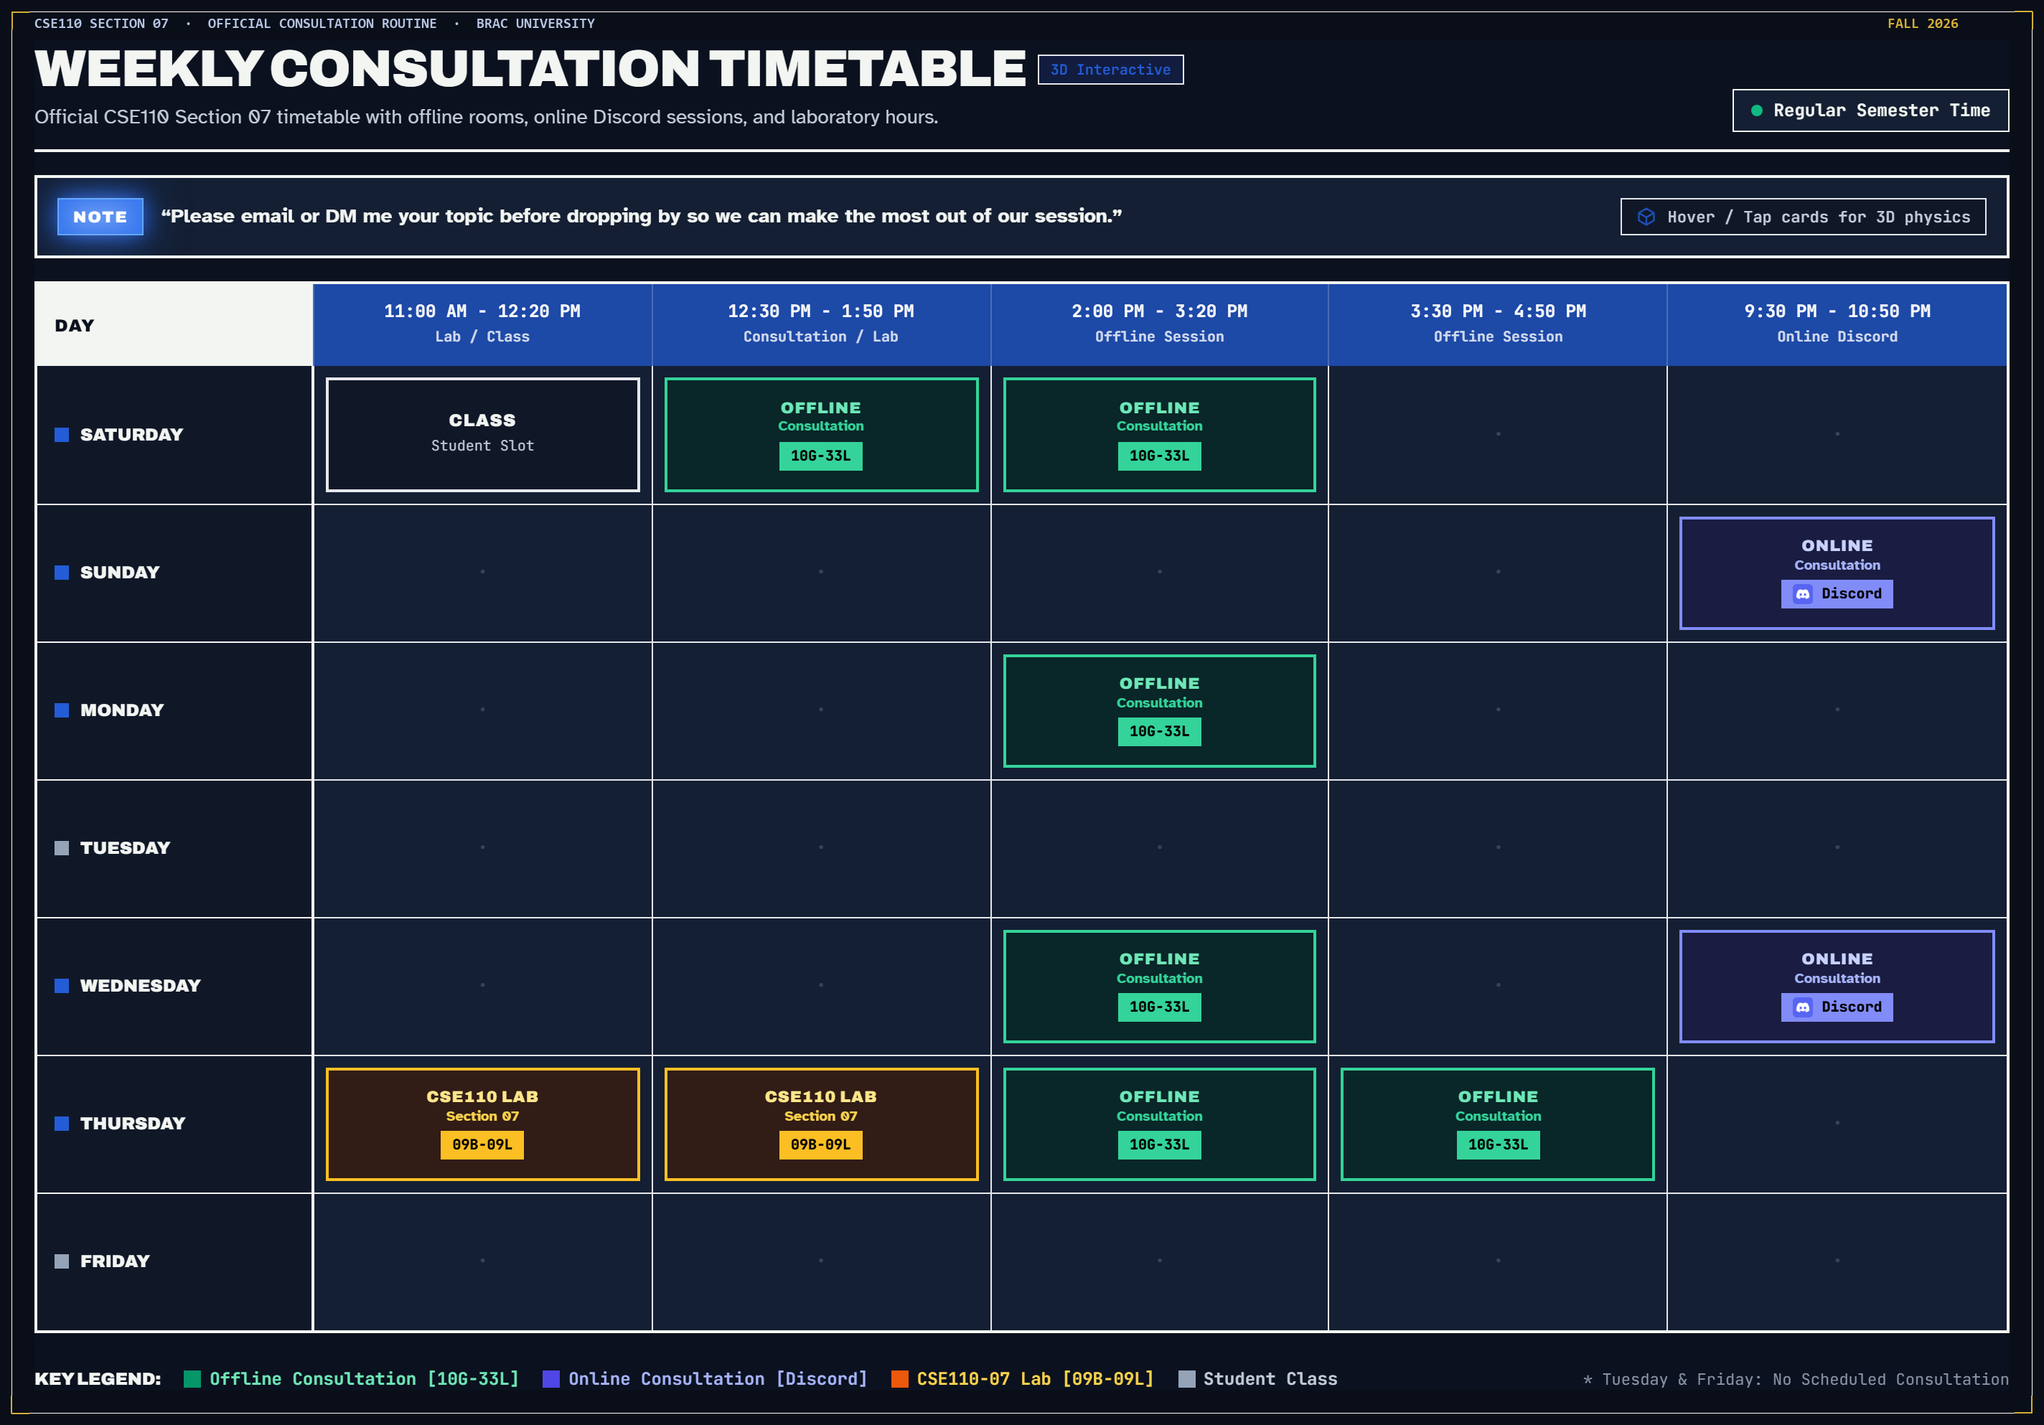
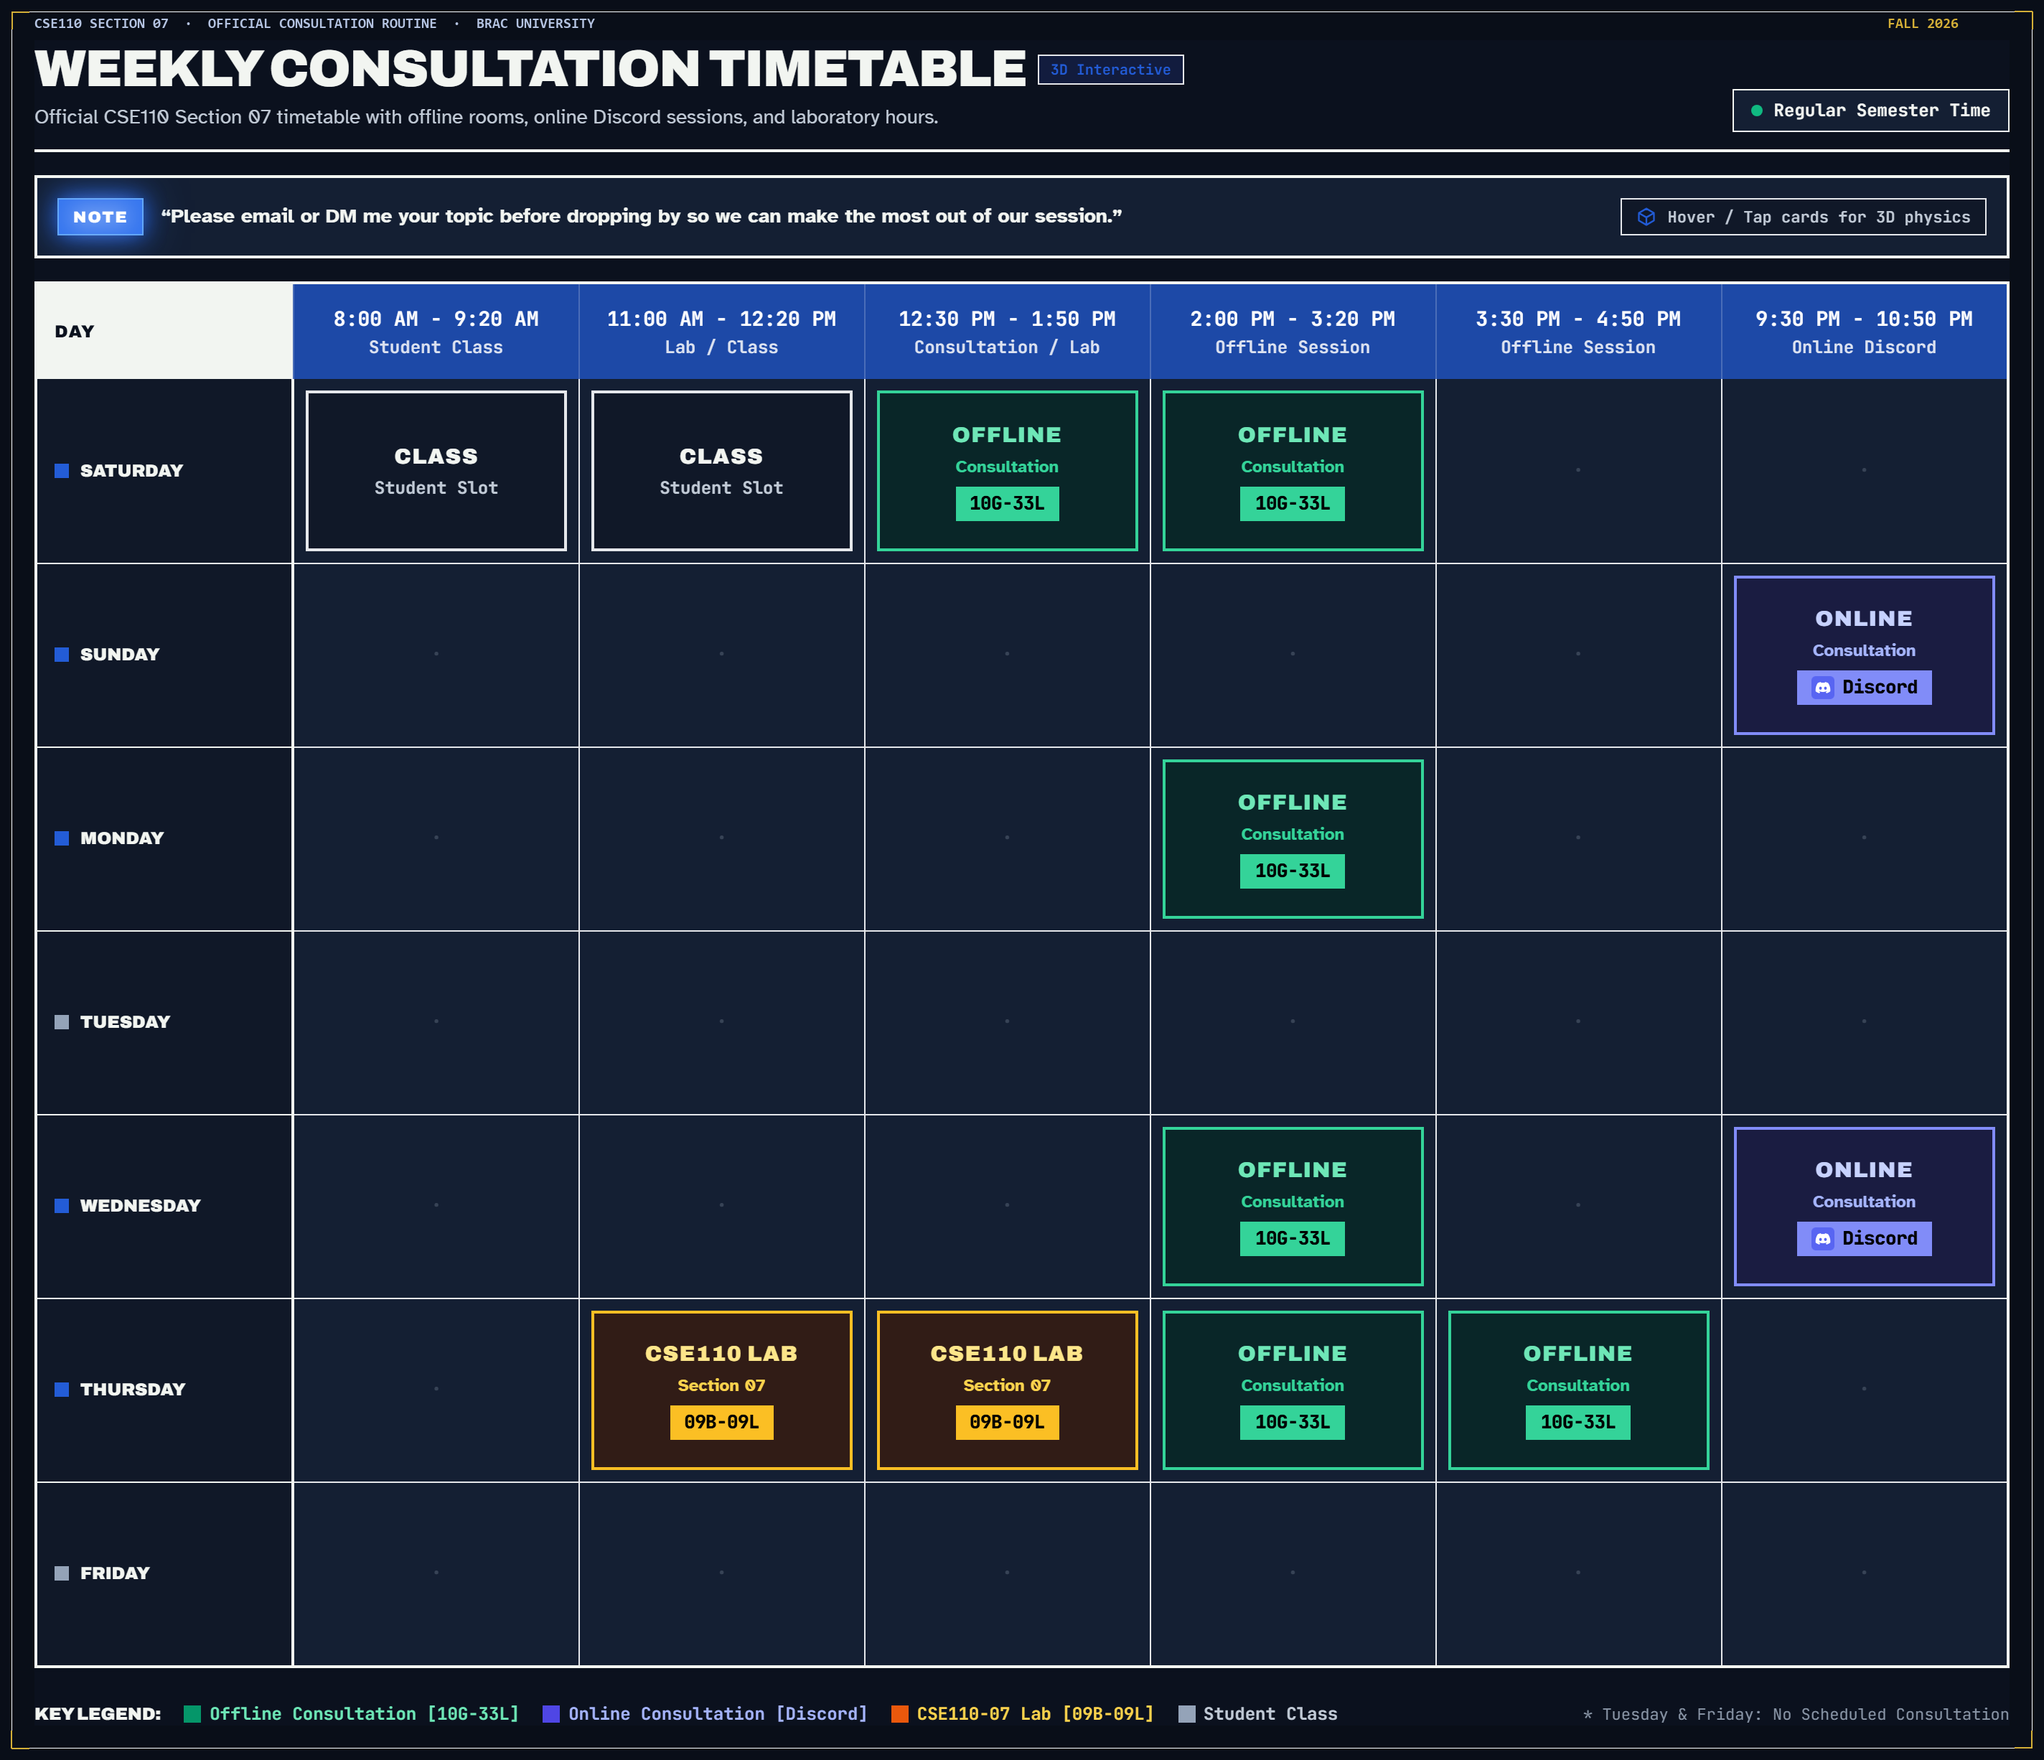
feat: add 8:00 AM - 9:20 AM class slot, enlarge card typography and update timetable showcase

diff --git a/src/App.tsx b/src/App.tsx
@@ -28,13 +28,14 @@ const LOGO_128 = `${BASE}rounded-logo-128.png`;
 const LOGO_256 = `${BASE}rounded-logo-256.png`;
 const DISCORD_LOGO = `${BASE}discord-logo-64.png`;
 
-/* 5 Active Time Slots (Each slot is 1h 20m; 10 min breaks excluded) */
+/* 6 Active Time Slots (Each slot is 1h 20m; 10 min breaks excluded) */
 const TIME_COLUMNS = [
-  { id: 1, label: '11:00 AM - 12:20 PM', sub: 'Lab / Class', hasSession: true },
-  { id: 2, label: '12:30 PM - 1:50 PM', sub: 'Consultation / Lab', hasSession: true },
-  { id: 3, label: '2:00 PM - 3:20 PM', sub: 'Offline Session', hasSession: true },
-  { id: 4, label: '3:30 PM - 4:50 PM', sub: 'Offline Session', hasSession: true },
-  { id: 5, label: '9:30 PM - 10:50 PM', sub: 'Online Discord', hasSession: true },
+  { id: 1, label: '8:00 AM - 9:20 AM', sub: 'Student Class', hasSession: true },
+  { id: 2, label: '11:00 AM - 12:20 PM', sub: 'Lab / Class', hasSession: true },
+  { id: 3, label: '12:30 PM - 1:50 PM', sub: 'Consultation / Lab', hasSession: true },
+  { id: 4, label: '2:00 PM - 3:20 PM', sub: 'Offline Session', hasSession: true },
+  { id: 5, label: '3:30 PM - 4:50 PM', sub: 'Offline Session', hasSession: true },
+  { id: 6, label: '9:30 PM - 10:50 PM', sub: 'Online Discord', hasSession: true },
 ];
 
 const SCHEDULE_ROWS: DaySchedule[] = [
@@ -42,6 +43,7 @@ const SCHEDULE_ROWS: DaySchedule[] = [
     day: 'Saturday',
     abbr: 'SAT',
     slots: [
+      { time: '8:00 AM - 9:20 AM', activity: 'class', title: 'Class', location: 'Student Slot' },
       { time: '11:00 AM - 12:20 PM', activity: 'class', title: 'Class', location: 'Student Slot' },
       { time: '12:30 PM - 1:50 PM', activity: 'offline', title: 'Offline Consultation', location: '10G-33L' },
       { time: '2:00 PM - 3:20 PM', activity: 'offline', title: 'Offline Consultation', location: '10G-33L' },
@@ -49,6 +51,7 @@ const SCHEDULE_ROWS: DaySchedule[] = [
       null,
     ],
     consultations: [
+      { time: '8:00 AM - 9:20 AM', activity: 'class', title: 'Student Class', location: 'Class' },
       { time: '11:00 AM - 12:20 PM', activity: 'class', title: 'Student Class', location: 'Class' },
       { time: '12:30 PM - 1:50 PM', activity: 'offline', title: 'Offline Consultation', location: '10G-33L' },
       { time: '2:00 PM - 3:20 PM', activity: 'offline', title: 'Offline Consultation', location: '10G-33L' },
@@ -58,6 +61,7 @@ const SCHEDULE_ROWS: DaySchedule[] = [
     day: 'Sunday',
     abbr: 'SUN',
     slots: [
+      null,
       null,
       null,
       null,
@@ -74,6 +78,7 @@ const SCHEDULE_ROWS: DaySchedule[] = [
     slots: [
       null,
       null,
+      null,
       { time: '2:00 PM - 3:20 PM', activity: 'offline', title: 'Offline Consultation', location: '10G-33L' },
       null,
       null,
@@ -86,13 +91,14 @@ const SCHEDULE_ROWS: DaySchedule[] = [
     day: 'Tuesday',
     abbr: 'TUE',
     isFree: true,
-    slots: [null, null, null, null, null],
+    slots: [null, null, null, null, null, null],
     consultations: [],
   },
   {
     day: 'Wednesday',
     abbr: 'WED',
     slots: [
+      null,
       null,
       null,
       { time: '2:00 PM - 3:20 PM', activity: 'offline', title: 'Offline Consultation', location: '10G-33L' },
@@ -108,6 +114,7 @@ const SCHEDULE_ROWS: DaySchedule[] = [
     day: 'Thursday',
     abbr: 'THU',
     slots: [
+      null,
       { time: '11:00 AM - 12:20 PM', activity: 'lab', title: 'CSE110-07 Lab', location: '09B-09L' },
       { time: '12:30 PM - 1:50 PM', activity: 'lab', title: 'CSE110-07 Lab', location: '09B-09L' },
       { time: '2:00 PM - 3:20 PM', activity: 'offline', title: 'Offline Consultation', location: '10G-33L' },
@@ -124,7 +131,7 @@ const SCHEDULE_ROWS: DaySchedule[] = [
     day: 'Friday',
     abbr: 'FRI',
     isFree: true,
-    slots: [null, null, null, null, null],
+    slots: [null, null, null, null, null, null],
     consultations: [],
   },
 ];
@@ -203,16 +210,16 @@ function Session3DCell({
         <div className="absolute inset-0 pointer-events-none opacity-0 group-hover:opacity-100 transition-opacity bg-gradient-to-tr from-transparent via-white/15 to-transparent" />
 
         {/* Floating 3D Contents with translateZ parallax */}
-        <div style={{ transform: 'translateZ(16px)' }} className="flex flex-col items-center justify-center pointer-events-none">
+        <div style={{ transform: 'translateZ(18px)' }} className="flex flex-col items-center justify-center pointer-events-none w-full px-1">
           {cell.activity === 'offline' && (
             <>
-              <span className="text-[11px] font-display font-black uppercase tracking-wider text-[#065f46] dark:text-emerald-300 leading-tight">
+              <span className="text-xs sm:text-sm lg:text-[15px] font-display font-black uppercase tracking-wider text-[#065f46] dark:text-emerald-300 leading-none">
                 OFFLINE
               </span>
-              <span className="text-[10px] font-sans font-bold text-[#047857] dark:text-emerald-400 leading-tight">
+              <span className="text-[11px] sm:text-xs font-sans font-extrabold text-[#047857] dark:text-emerald-400 leading-tight mt-1">
                 Consultation
               </span>
-              <span className="mt-1 px-2 py-0.5 rounded-xs text-[10px] font-mono font-black bg-[#065f46] text-white dark:bg-emerald-400 dark:text-black shadow-xs">
+              <span className="mt-1.5 px-2.5 py-1 rounded-xs text-xs sm:text-[13px] font-mono font-black bg-[#065f46] text-white dark:bg-emerald-400 dark:text-black shadow-xs tracking-tight">
                 {cell.location}
               </span>
             </>
@@ -220,17 +227,17 @@ function Session3DCell({
 
           {cell.activity === 'online' && (
             <>
-              <span className="text-[11px] font-display font-black uppercase tracking-wider text-[#3730a3] dark:text-indigo-200 leading-tight">
+              <span className="text-xs sm:text-sm lg:text-[15px] font-display font-black uppercase tracking-wider text-[#3730a3] dark:text-indigo-200 leading-none">
                 ONLINE
               </span>
-              <span className="text-[10px] font-sans font-bold text-[#4338ca] dark:text-indigo-300 leading-tight">
+              <span className="text-[11px] sm:text-xs font-sans font-extrabold text-[#4338ca] dark:text-indigo-300 leading-tight mt-1">
                 Consultation
               </span>
-              <span className="mt-1 px-2 py-0.5 rounded-xs text-[10px] font-mono font-black bg-[#4338ca] text-white dark:bg-indigo-400 dark:text-black flex items-center gap-1.5 shadow-xs">
+              <span className="mt-1.5 px-2.5 py-1 rounded-xs text-xs sm:text-[13px] font-mono font-black bg-[#4338ca] text-white dark:bg-indigo-400 dark:text-black flex items-center gap-1.5 shadow-xs tracking-tight">
                 <img
                   src={DISCORD_LOGO}
                   alt="Discord"
-                  className="w-3.5 h-3.5 object-contain shrink-0"
+                  className="w-4 h-4 object-contain shrink-0"
                 />
                 Discord
               </span>
@@ -239,13 +246,13 @@ function Session3DCell({
 
           {cell.activity === 'lab' && (
             <>
-              <span className="text-[11px] font-display font-black uppercase tracking-wider text-[#9a3412] dark:text-amber-200 leading-tight">
+              <span className="text-xs sm:text-sm lg:text-[15px] font-display font-black uppercase tracking-wider text-[#9a3412] dark:text-amber-200 leading-none">
                 CSE110 LAB
               </span>
-              <span className="text-[10px] font-sans font-bold text-[#c2410c] dark:text-amber-300 leading-tight">
+              <span className="text-[11px] sm:text-xs font-sans font-extrabold text-[#c2410c] dark:text-amber-300 leading-tight mt-1">
                 Section 07
               </span>
-              <span className="mt-1 px-2 py-0.5 rounded-xs text-[10px] font-mono font-black bg-[#9a3412] text-white dark:bg-amber-400 dark:text-black shadow-xs">
+              <span className="mt-1.5 px-2.5 py-1 rounded-xs text-xs sm:text-[13px] font-mono font-black bg-[#9a3412] text-white dark:bg-amber-400 dark:text-black shadow-xs tracking-tight">
                 {cell.location}
               </span>
             </>
@@ -253,10 +260,10 @@ function Session3DCell({
 
           {cell.activity === 'class' && (
             <>
-              <span className="text-xs font-display font-black uppercase tracking-wider text-[var(--ink)] leading-tight">
+              <span className="text-xs sm:text-sm lg:text-[15px] font-display font-black uppercase tracking-wider text-[var(--ink)] leading-none">
                 CLASS
               </span>
-              <span className="text-[10px] font-mono text-[var(--ink-2)] mt-0.5">
+              <span className="text-[11px] sm:text-xs font-mono font-bold text-[var(--ink-2)] mt-1">
                 Student Slot
               </span>
             </>
@@ -839,22 +846,22 @@ export default function App() {
               <thead>
                 <tr className="bg-[var(--ink)] text-[var(--paper)]">
                   {/* Day Column Header */}
-                  <th className="py-3.5 px-3 text-left font-display font-black uppercase tracking-wider text-xs border-r border-white/20 w-[14%]">
+                  <th className="py-3.5 px-3 text-left font-display font-black uppercase tracking-wider text-xs border-r border-white/20 w-[13%]">
                     DAY
                   </th>
 
-                  {/* 5 Time Columns */}
+                  {/* 6 Time Columns */}
                   {TIME_COLUMNS.map((col, idx) => (
                     <th
                       key={col.id}
-                      className={`py-3 px-2 text-center border-r border-white/20 last:border-r-0 w-[17.2%] ${
+                      className={`py-3.5 px-2 text-center border-r border-white/20 last:border-r-0 w-[14.5%] ${
                         col.hasSession ? 'bg-[#1d49a7] text-white' : ''
                       } ${idx === TIME_COLUMNS.length - 1 ? 'border-r-0' : ''}`}
                     >
-                      <div className="font-mono text-xs font-bold leading-tight">
+                      <div className="font-mono text-xs sm:text-sm font-bold leading-tight">
                         {col.label}
                       </div>
-                      <div className="text-[10px] font-mono opacity-80 truncate mt-0.5">
+                      <div className="text-[11px] sm:text-xs font-mono opacity-85 truncate mt-0.5 font-semibold">
                         {col.sub}
                       </div>
                     </th>
@@ -889,7 +896,7 @@ export default function App() {
                         return (
                           <td
                             key={`${row.day}-${idx}`}
-                            className={`p-1.5 text-center align-middle h-24 relative hover:z-30 overflow-visible ${!isLastCol ? 'border-r border-[var(--ink)]/25' : ''} ${!isLastRow ? 'border-b border-[var(--ink)]/25' : ''}`}
+                            className={`p-1.5 text-center align-middle h-28 sm:h-32 relative hover:z-30 overflow-visible ${!isLastCol ? 'border-r border-[var(--ink)]/25' : ''} ${!isLastRow ? 'border-b border-[var(--ink)]/25' : ''}`}
                           >
                             {cell ? (
                               <Session3DCell

diff --git a/src/data/scheduleData.ts b/src/data/scheduleData.ts
@@ -1,4 +1,4 @@
-import { ScheduleSlot, TutorProfileInfo } from '../types';
+import { ScheduleSlot, TutorProfileInfo, SessionType } from '../types';
 
 export const TUTOR_INFO: TutorProfileInfo = {
   name: 'Imtiaz Hossain',
@@ -27,6 +27,22 @@ export const DAYS_OF_WEEK = [
 ] as const;
 
 export const REGULAR_SCHEDULE: ScheduleSlot[] = [
+  {
+    id: 'reg-sat-0',
+    day: 'Saturday',
+    time: '8:00 AM',
+    activity: 'Student Class',
+    location: 'Class',
+    type: 'class' as SessionType,
+  },
+  {
+    id: 'reg-sat-0b',
+    day: 'Saturday',
+    time: '11:00 AM',
+    activity: 'Student Class',
+    location: 'Class',
+    type: 'class' as SessionType,
+  },
   {
     id: 'reg-sat-1',
     day: 'Saturday',

diff --git a/src/types/index.ts b/src/types/index.ts
@@ -1,4 +1,4 @@
-export type SessionType = 'offline' | 'online' | 'lab';
+export type SessionType = 'offline' | 'online' | 'lab' | 'class';
 
 export interface ScheduleSlot {
   id: string;

diff --git a/README.md b/README.md
@@ -54,21 +54,22 @@ Tapping any session card reveals the interactive **Session Inspector**, allowing
 </p>
 
 ### Active Time Matrix (80-Minute Academic Blocks)
-* **Slot 1 (11:00 AM - 12:20 PM)**: Lab Session / Student Class
-* **Slot 2 (12:30 PM - 1:50 PM)**: Offline Consultation / Lab Session
-* **Slot 3 (2:00 PM - 3:20 PM)**: Offline Consultation
-* **Slot 4 (3:30 PM - 4:50 PM)**: Offline Consultation
-* **Slot 5 (9:30 PM - 10:50 PM)**: Online Discord Consultation
+* **Slot 1 (8:00 AM - 9:20 AM)**: Student Class
+* **Slot 2 (11:00 AM - 12:20 PM)**: Lab Session / Student Class
+* **Slot 3 (12:30 PM - 1:50 PM)**: Offline Consultation / Lab Session
+* **Slot 4 (2:00 PM - 3:20 PM)**: Offline Consultation
+* **Slot 5 (3:30 PM - 4:50 PM)**: Offline Consultation
+* **Slot 6 (9:30 PM - 10:50 PM)**: Online Discord Consultation
 
-| Day | 11:00 AM - 12:20 PM | 12:30 PM - 1:50 PM | 2:00 PM - 3:20 PM | 3:30 PM - 4:50 PM | 9:30 PM - 10:50 PM |
-| :--- | :---: | :---: | :---: | :---: | :---: |
-| **Saturday** | Student Class | **Offline (10G-33L)** | **Offline (10G-33L)** | *Free* | *Free* |
-| **Sunday** | *Free* | *Free* | *Free* | *Free* | **Online (Discord)** |
-| **Monday** | *Free* | *Free* | **Offline (10G-33L)** | *Free* | *Free* |
-| **Tuesday** | *Free* | *Free* | *Free* | *Free* | *Free* |
-| **Wednesday** | *Free* | *Free* | **Offline (10G-33L)** | *Free* | **Online (Discord)** |
-| **Thursday** | **Lab (09B-09L)** | **Lab (09B-09L)** | **Offline (10G-33L)** | **Offline (10G-33L)** | *Free* |
-| **Friday** | *Free* | *Free* | *Free* | *Free* | *Free* |
+| Day | 8:00 AM - 9:20 AM | 11:00 AM - 12:20 PM | 12:30 PM - 1:50 PM | 2:00 PM - 3:20 PM | 3:30 PM - 4:50 PM | 9:30 PM - 10:50 PM |
+| :--- | :---: | :---: | :---: | :---: | :---: | :---: |
+| **Saturday** | Student Class | Student Class | **Offline (10G-33L)** | **Offline (10G-33L)** | *Free* | *Free* |
+| **Sunday** | *Free* | *Free* | *Free* | *Free* | *Free* | **Online (Discord)** |
+| **Monday** | *Free* | *Free* | *Free* | **Offline (10G-33L)** | *Free* | *Free* |
+| **Tuesday** | *Free* | *Free* | *Free* | *Free* | *Free* | *Free* |
+| **Wednesday** | *Free* | *Free* | *Free* | **Offline (10G-33L)** | *Free* | **Online (Discord)** |
+| **Thursday** | *Free* | **Lab (09B-09L)** | **Lab (09B-09L)** | **Offline (10G-33L)** | **Offline (10G-33L)** | *Free* |
+| **Friday** | *Free* | *Free* | *Free* | *Free* | *Free* | *Free* |
 
 ---
 
